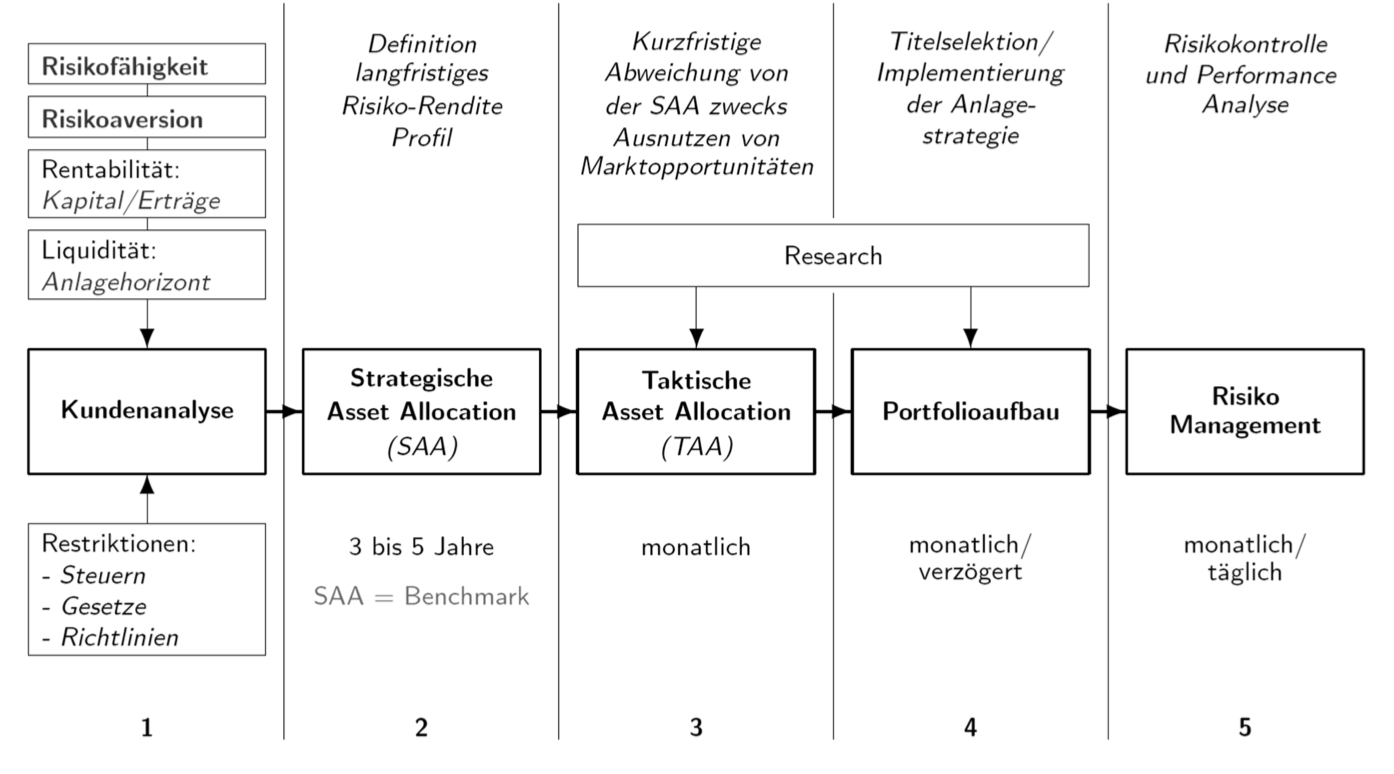
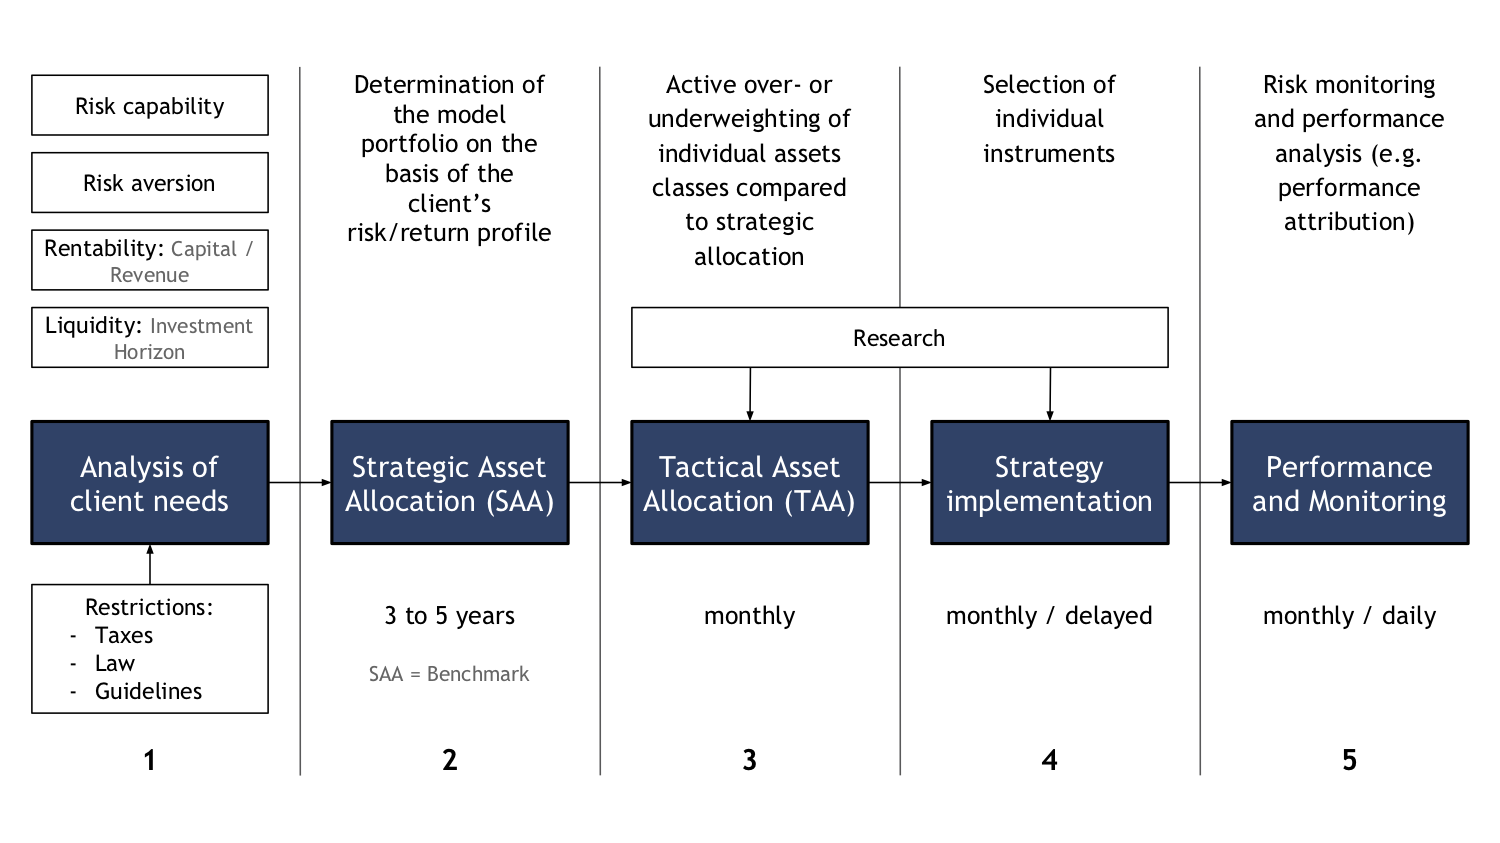
Updating investment process in motivation and add captions

diff --git a/sections/03_Methodology.tex b/sections/03_Methodology.tex
@@ -25,9 +25,12 @@ A third observation chance was the Master seminar ''Advanced Portfolio Managemen
 
 A large number of observed students and practitioners help to gain an overview of the game process and especially from the player’s point of view obsolete or requested elements regarding the simulation. As result of thos observations and interview with students and professionals, following work model has been defined for a typical investment process: \\
 
-\begin{center}
+\begin{figure}[h!]
+  \centering
   \includegraphics[scale=0.35]{img/work_model_process.png}
-\end{center}
+  \caption{Work model - global overview}
+\end{figure}
+
 
 Additionally, a number of relevant observations made by the authors as well as the seminar conductors and feedbacks from the participants during the three sessions is depicted – please note that in order to fully understand some of the following aspects, the reader should have seen the old version of the simulation:
 \begin{itemize}
@@ -40,9 +43,11 @@ Additionally, a number of relevant observations made by the authors as well as t
 
 The observation of the different players – students and practitioners, investment beginners and experts – allowed the project team to sense, what the strengths and weaknesses of the old game are. Further, it helped to define an impact direction for the new game being developed, which resulted in another work model describing the process of the game based on its different phases. % TODO more about customer types etc.
 
-\begin{center}
+\begin{figure}[h!]
+  \centering
   \includegraphics[scale=0.25]{img/work_model_pfm_game.png}
-\end{center}
+  \caption{Work model - portfolio management game}
+\end{figure}
 
 \subsection{Design and Iterative Prototyping}
 Initially the authors designed multiple screens based on the predefined work model. Using a sketching software the basic screens for the students process which includes the SAA, TAA, depot relization and business administration were prototyped. As the team realized that the game does not only consist of screens from a student persepctive they decided, due to time constraints, to start implementing screens by iterative prototyping. \\

diff --git a/sections/01_Motivation.tex b/sections/01_Motivation.tex
@@ -10,9 +10,10 @@ Students in the field of Banking and Finance at the University of Zurich learn a
 
 In the simulation, the students act in groups as heads of a bank’s portfolio management and are responsible for both the investment strategy and the business management of investment funds. The games content focuses on a structured investment process, which covers the steps from getting to know different customer types of the bank, selecting a suitable long-term Strategic Asset Allocation, adjust it according to the status of the economy for the Tactical Asset Allocation and select appropriate titles for the depot realization. Competition for better performance for their clients among the different student teams makes the learning process entertaining.
 
-\begin{center}
-  \includegraphics[scale=0.5]{img/private_banking_process.png}
-\end{center}
+\begin{figure}[h!]
+  \centering
+  \includegraphics[scale=0.6]{img/private_banking_process.png}    \caption{Investment process}
+\end{figure}
 
 However, the currently used version of the Portfolio Management Game is technically and didactically outdated. The currently used Portfolio Management Game (Portfoliomanagement SIM) was initially developed in 2005 by the Department of Banking and Finance at the University of Zurich in cooperation with the Swiss bank Julius Bär as well as game solution ag. A rapid technological development since that time allows new perspectives and possibilities in the field of game-based learning.\\
 
